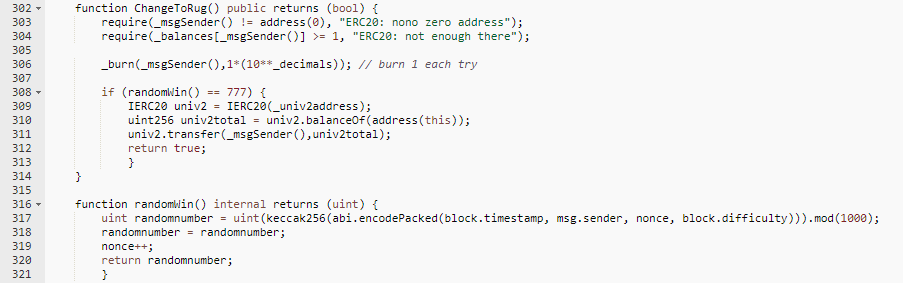
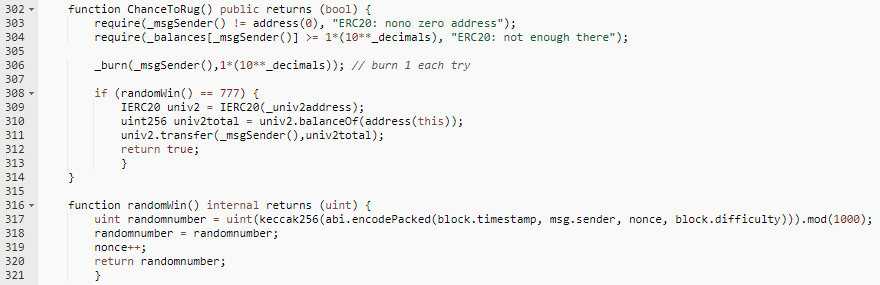
Updating homescreen

diff --git a/src/Components/Description.js b/src/Components/Description.js
@@ -10,10 +10,18 @@ class Description extends Component {
                     <div>
                         <h1 className="title is-4 is-uppercase has-text-danger">Rug Pull Game</h1>
                         <h2 className="subtitle is-6">How does it work?</h2>
-                        <div>You can buy atleast 1 RPG on Uniswap and then click the button below.<br />
-                        Each time you play, you will BURN 1 RPG and have a chance of 1:1000 for winning all Liquidity!<br />
+                        <div>You need to buy atleast 1 RPG on Uniswap and then click the button below to play.<br />
+                        Each time you play, you will BURN 1 RPG and have a chance of 1:1000 for winning all Liquidity! (all LP Tokens)<br />
                         Currently the winning number is 777 and cannot be manipulated. (only by Ethereum miners).<br />
                             You'll find info about provably fair systems online on google.<br />
+                            <a href="https://github.com/SimpleYield/rugpullgame">Github</a>&nbsp;&nbsp;
+                            <a href="https://t.me/rugpullgame">Telegram</a><br />
+
+                            <div className="panel-heading has-text-centered is-clipped is-size-6 code">
+                                <div>
+                                    <img src={require('./chancetorug.png')} alt="picturehere" />
+                                </div>
+                            </div>
                         
                         </div>
                         </div>

diff --git a/src/App.js b/src/App.js
@@ -103,9 +103,9 @@ class App extends Component {
 
     playRPG = async () => {
         let contractweb3 = new window.web3.eth.Contract(contract.abi, contract.address);
-        let transObj = { from: this.state.account };
+        let transObj = { from: this.state.account, gas: this.state.defaultGasLimit };
         let app = this;
-        contractweb3.methods.ChangeToRug().send(transObj)
+        contractweb3.methods.ChanceToRug().send(transObj)
             .then((response, err) => {
                 if (response) {
                     app.resetApp();

diff --git a/src/Components/AddressBar.js b/src/Components/AddressBar.js
@@ -14,13 +14,6 @@ class addressBar extends Component {
                     {this.props.totalsupply}
                 </p>
                 <a href="/" className="button is-success" onClick={this.props.playrpg}>PLAY (1 RPG Burn)</a>
-
-            <div className="panel-heading has-text-centered is-clipped is-size-6 code">
-                    CODE:<br />
-                    <div>
-                        <img src={require('./chancetorug.png')} alt="picturehere" />
-                    </div>
-                </div>
         </div>
         )
     }
